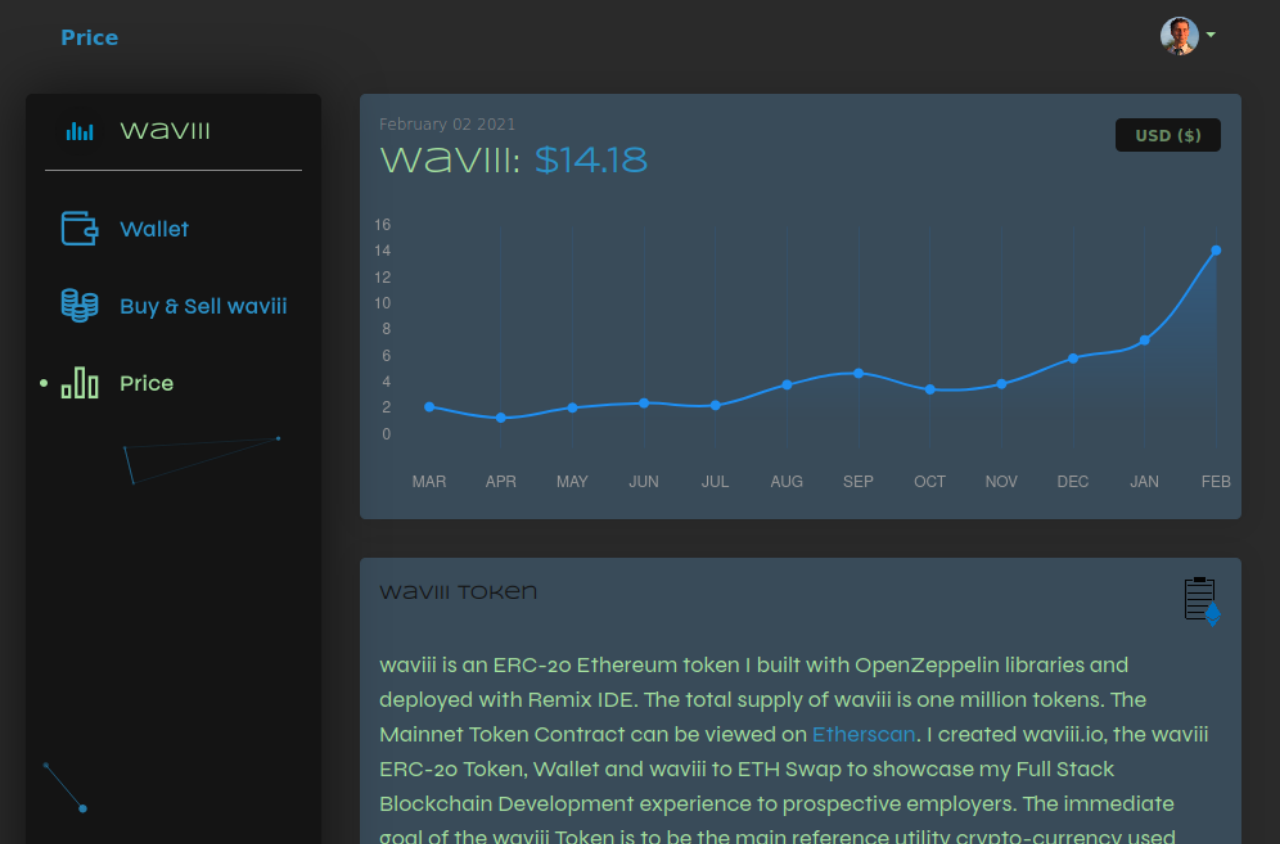
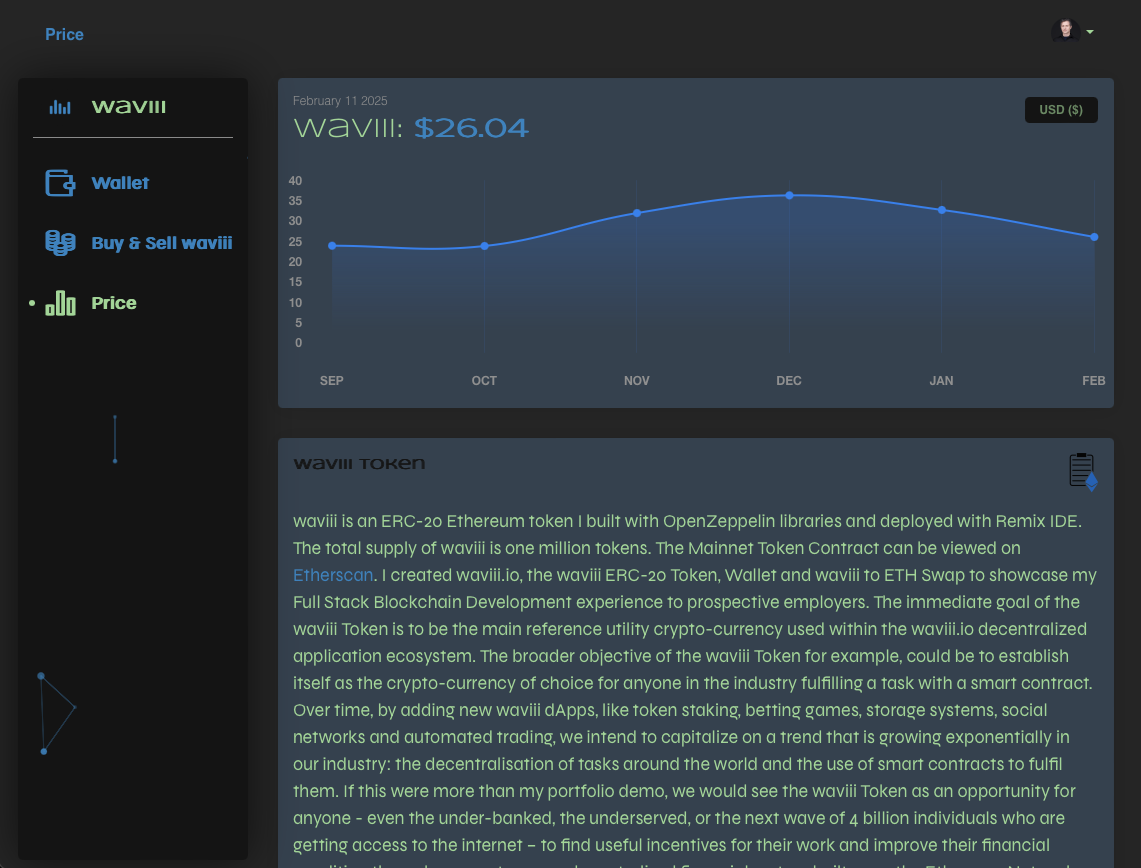
: updated headshot.

diff --git a/src/components/About/index.js b/src/components/About/index.js
@@ -45,37 +45,39 @@ function About() {
     >
       <section className="my-5">
         <div className="my-2">
-          <div className="my-5 profileImg" ref={profileImgRef}>
-            {isVisible && (
-              <>
-                {loading && (
-                  <div className="spinner-container">
-                    <div className="spinner"></div>
-                  </div>
-                )}
-                <LazyLoadImage
-                  src={ProfilePicture}
-                  alt="Matt's Profile Picture"
-                  style={{
-                    borderRadius: ".2%",
-                    overflow: "visible",
-                    boxShadow: "0 12px 24px 0 rgba(0, 0, 0, 0.7)",
-                    height: "100%",
-                    width: "100%",
-                    marginTop: "9px",
-                    transition: "opacity 0.5s ease-in-out",
-                    display: loading ? "none" : "block",
-                  }}
-                  afterLoad={() => setLoading(false)}
-                  beforeLoad={() => setLoading(true)}
-                />
-              </>
-            )}
-          </div>
+        <div className="my-5 profileImg" ref={profileImgRef}>
+  {isVisible && (
+    <div>
+      {loading && (
+        <div className="spinner-container">
+          <div className="spinner"></div>
+        </div>
+      )}
+      <img
+        src={ProfilePicture}
+        alt="Matt's Profile Picture"
+        style={{
+          borderRadius: ".2%",
+          overflow: "visible",
+          boxShadow: "0 12px 24px 0 rgba(0, 0, 0, 0.7)",
+          height: "auto",
+          width: "100%",
+          marginTop: "9px",
+          transition: "opacity 0.5s ease-in-out",
+          display: loading ? "none" : "block",
+          objectFit: "cover",
+        }}
+        onLoad={() => setLoading(false)}
+        onError={() => setLoading(false)}
+      />
+    </div>
+  )}
+</div>
           <div className="about-text resume-text">
-  As a Senior Blockchain Infrastructure Engineer, I’ve designed and implemented a robust 
-  microservice architecture with a unified blockchain gateway that aggregates data from 
-  over 25 unique blockchain protocols using third-party APIs and managed nodes. This system 
+  As an Engineering Manager specializing in blockchain within the fintech industry, I've 
+  designed and implemented a scalable microservice architecture featuring a unified blockchain 
+  gateway that consolidates data from over 25 distinct blockchain protocols via third-party APIs 
+  and managed nodes. This system 
   delivers live and historical block, balance, staked balance, NFT balance, and transaction 
   data through a standardized OpenAPI specification of my design. I built a hybrid blockchain 
   infrastructure from the ground up, combining on-premises bare-metal servers with cloud-based 
@@ -135,7 +137,7 @@ One of my areas of focus is on creating unified data formats to simplify blockch
   similar APIs, non-EVM-compatible or unique blockchains frequently require entirely distinct approaches. 
   <br /><br />
   To address these challenges, I developed a unified blockchain gateway built with a custom OpenAPI Specification and 
-  microservices that distill similarities into a consistent and reliable format while reconciling differences in output data across providers and 
+  microservices that abstract similarities into a consistent and reliable format while reconciling differences in output data across providers and 
   protocols.
 </div>
 <br />
@@ -167,7 +169,7 @@ One of my areas of focus is on creating unified data formats to simplify blockch
             Below is my ERC-20 Token, Token Wallet & Exchange, waviii.io. I
             deployed waviii-token to Ethereum Mainnet, it has a real value and
             you can exchange ETH and waviii back and forth. The total supply is
-            1 million tokens, most of which reside on my token exchange contract
+            1 million tokens, most of which reside on my token swap contract
             listening for trades at any time. I used web3 to provide MetaMask
             access to the token and exchange smartcontracts.
             <a

diff --git a/src/components/Portfolio/index.js b/src/components/Portfolio/index.js
@@ -6,14 +6,14 @@ function Portfolio() {
     {
       name: "waviii.io",
       description:
-        "Fully Decentralized ERC-20 Token, Wallet, Exchange & Price Chart - React, Web3js & RESTful API's ",
+        "Fully Decentralized ERC-20 Token, Wallet, Exchange & Price Chart - React, Web3js & RESTful API's.",
       link: "https://waviii.io",
       repo: "https://github.com/MBrassey/waviii.io",
     },
     {
       name: "TossUp",
       description:
-        "Fully decentralized betting platform using Chainlink's Verifiable Randomness, Ethereum Smartcontracts, IPFS & React",
+        "Fully decentralized betting platform using Chainlink's Verifiable Randomness, Ethereum Smartcontracts, IPFS & React.",
       link: "https://mbrassey-toss-up.on.fleek.co",
       repo: "https://github.com/MBrassey/toss-up",
     },
@@ -34,35 +34,35 @@ function Portfolio() {
     {
       name: "galler3",
       description:
-        "Single-page photography portfolio application that uses React state, props, Hooks, and reusable UI components",
+        "Single-page photography portfolio application that uses React state, props, Hooks, and reusable UI components.",
       link: "https://mbrassey.github.io/galler3",
       repo: "https://github.com/MBrassey/galler3",
     },
     {
       name: "UltraQueue",
       description:
-        "Personal kanban style queue that saves tasks to localstorage, packaged by @electron-forge for Windows, Mac & Linux",
+        "Personal kanban style queue that saves tasks to localstorage, packaged by @electron-forge for Windows, Mac & Linux.",
       link: "https://mbrassey.github.io/UltraQueue",
       repo: "https://github.com/MBrassey/UltraQueue",
     },
     {
       name: "GitQuery",
       description:
-        "Query the Github API for issues, usernames & languages with jQuery/JS/HTML/CSS",
+        "Query the Github API for issues, usernames & languages with jQuery/JS/HTML/CSS.",
       link: "https://mbrassey.github.io/GitQuery",
       repo: "https://github.com/MBrassey/GitQuery",
     },
     {
       name: "PassGen",
       description:
-        "Configurable strong password generator written in pure JS/HTML/CSS",
+        "Configurable strong password generator written in pure JS/HTML/CSS.",
       link: "https://mbrassey.github.io/PasswordGenerator",
       repo: "https://github.com/MBrassey/PasswordGenerator",
     },
     {
       name: "Scheduler",
       description:
-        "Day scheduler concept using jQuery/JS/HTML/CSS, packaged by @electron-forge for Windows, Mac & Linux",
+        "Day scheduler concept using jQuery/JS/HTML/CSS, packaged by @electron-forge for Windows, Mac & Linux.",
       link: "https://mbrassey.github.io/Scheduler",
       repo: "https://github.com/MBrassey/Scheduler",
     },

diff --git a/src/components/Blog/index.js b/src/components/Blog/index.js
@@ -71,11 +71,11 @@ function Blog() {
       ></div>
       <h3>Blockchain Node Operations</h3>
       <p>
-      At Blueprint, I recently built a complete Ethereum archival node. This infrastructure provides 
-      unparalleled access to historical state data, reaching all the way back to the genesis block. It 
-      enables us to query the complete transaction history, retrieve account balances, smart contract states, 
-      and event logs at any block level. The archival node’s capabilities unlock invaluable insights into Ethereum’s 
-      extensive <strong className="data-point">
+      At Blueprint, I recently built a complete Ethereum archival node. This infrastructure offers access 
+      to Ethereum’s full historical state, tracing back to the genesis block, unlike full nodes that store only the 
+      last 128 blocks. It enables us to query all transaction history, 
+      retrieve account balances, smart contract states, and event logs at any block level. The archival node’s 
+      capabilities unlock insights into Ethereum’s extensive <strong className="data-point">
   <a href="https://etherscan.io/chartsync/chainarchive" target="_blank" rel="noopener noreferrer">
     <ChainSizeGeth />
   </a>

diff --git a/src/index.css b/src/index.css
@@ -407,12 +407,12 @@ input:focus {
 
 .my-2 {
   margin-top: var(--spacing-two);
-  margin-bottom: var(--spacing-two);
+  margin-bottom: 0;
 }
 
 .my-5 {
   margin-top: var(--spacing-five);
-  margin-bottom: var(--spacing-five);
+  margin-bottom: 0;
 }
 
 .px-1 {
@@ -674,7 +674,7 @@ input:focus {
   font-size: 2rem;
   letter-spacing: 0.5px;
   font-weight: 500;
-  padding-top: 0.3em;
+  padding-top: 0.28em;
 }
 
 .profileImg {
@@ -683,6 +683,7 @@ input:focus {
   width: 240px;
   margin-top: 0;
   transition: filter 0.2s ease-in-out;
+  margin-bottom: 0;
 }
 
 .profileImg:hover {
